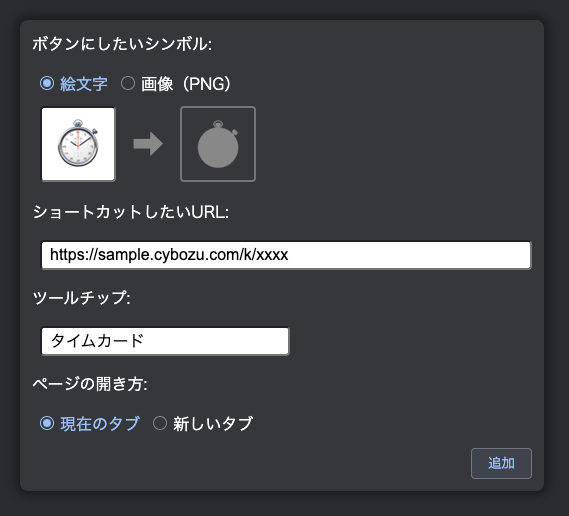
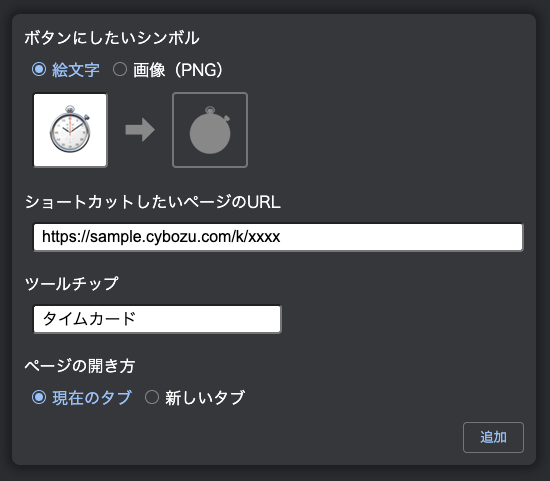
点検して修正した。

Changed region(s): [[0.0309, 0.0624, 0.9582, 0.9356], [0.0618, 0.842, 0.9582, 0.9667]]

diff --git a/src/js/option.js b/src/js/option.js
@@ -54,7 +54,6 @@
 
   const saveAnchors = () => {
     const anchors = currentAnchors();
-    console.dir(anchors, { depth: null });
     chrome.storage.sync.set({ anchors: anchors }, function () {
       updateHidden(anchors);
     });
@@ -69,6 +68,11 @@
   const makeAnchorItem = (anchor) => {
     const li = document.createElement("li");
     li.className = "anchor-item";
+    let note = anchor.tooltip;
+    if (anchor.newtab) {
+      li.classList.add("newtab");
+      note += "（新規タブ）";
+    }
     li.setAttribute("tooltip", anchor.tooltip);
 
     const imgGrasp = document.createElement("img");
@@ -81,7 +85,7 @@
       const spanEmoji = document.createElement("span");
       spanEmoji.className = "anchor-emoji";
       spanEmoji.innerText = anchor.emoji;
-      spanEmoji.title = anchor.tooltip;
+      spanEmoji.title = note;
       li.appendChild(spanEmoji);
     }
 
@@ -89,7 +93,7 @@
       const imgImage = document.createElement("img");
       imgImage.className = "anchor-image";
       imgImage.src = anchor.image;
-      imgImage.title = anchor.tooltip;
+      imgImage.title = note;
       li.appendChild(imgImage);
     }
 
@@ -104,9 +108,6 @@
     btnDelete.addEventListener("click", removeAnchorItem);
     li.appendChild(btnDelete);
 
-    if (anchor.newtab) {
-      li.classList.add("newtab");
-    }
     return li;
   };
 
@@ -156,7 +157,7 @@
     }
 
     const inputTooltip = document.querySelector(".input-tooltip");
-    const inputNewTab = document.querySelector(".newtab");
+    const inputNewTab = document.querySelector(".newtab-radio");
     const anchor = {
       emoji: emoji,
       image: image,
@@ -185,7 +186,10 @@
     const emojiPreview = document.querySelector(".emoji-preview");
     const inputEmoji = document.querySelector(".input-emoji");
     inputEmoji.addEventListener("input", () => {
-      if (inputEmoji.scrollWidth <= inputEmoji.clientWidth) {
+      if (
+        0 < inputEmoji.value.length &&
+        inputEmoji.scrollWidth <= inputEmoji.clientWidth
+      ) {
         emojiPreview.innerText = inputEmoji.value;
       } else {
         emojiPreview.innerText = "?";
@@ -197,8 +201,12 @@
     document
       .querySelector(".input-image")
       .addEventListener("change", function (e) {
-        const blobURL = URL.createObjectURL(e.target.files[0]);
-        document.querySelector(".image-preview").src = blobURL;
+        if (0 < e.target.files.length) {
+          const blobURL = URL.createObjectURL(e.target.files[0]);
+          document.querySelector(".image-preview").src = blobURL;
+        } else {
+          document.querySelector(".image-preview").src = "images/question.png";
+        }
       });
   };
 

diff --git a/src/option.html b/src/option.html
@@ -13,7 +13,7 @@
       <ul class="anchor-list"></ul>
     </div>
     <div class="add-anchor-div">
-      <p>ボタンにしたいシンボル:</p>
+      <p class="sub-title">ボタンにしたいシンボル</p>
       <label class="radio-label">
         <input type="radio" name="anchor-symbol" value="emoji" checked />
         <span class="radio-text">絵文字</span>
@@ -38,7 +38,7 @@
         <p class="arrow">➡</p>
         <img class="image-preview" src="images/question.png" />
       </div>
-      <p>ショートカットしたいURL:</p>
+      <p class="sub-title">ショートカットしたいページのURL</p>
       <input
         class="input-url"
         type="text"
@@ -46,7 +46,7 @@
         placeholder="https://から始まるリンクにしてください。"
         spellcheck="false"
       />
-      <p>ツールチップ:</p>
+      <p class="sub-title">ツールチップ</p>
       <input
         class="input-tooltip"
         type="text"
@@ -54,13 +54,18 @@
         placeholder="ボタンの短い説明（任意）"
         spellcheck="false"
       />
-      <p>ページの開き方:</p>
+      <p class="sub-title">ページの開き方</p>
       <label class="radio-label">
         <input type="radio" name="open-page" value="currenttab" checked />
         <span class="radio-text">現在のタブ</span>
       </label>
       <label class="radio-label">
-        <input type="radio" name="open-page" value="newtab" class="newtab" />
+        <input
+          class="newtab-radio"
+          type="radio"
+          name="open-page"
+          value="newtab"
+        />
         <span class="radio-text">新しいタブ</span>
       </label>
       <div class="add-button-div">

diff --git a/icon.html b/icon.html
@@ -2,12 +2,12 @@
   style="
     width: 128px;
     height: 128px;
-    background-color: #333;
+    background-color: #ffcc00;
     text-align: center;
     line-height: 128px;
   "
 >
-  <p style="font-size: 80px; color: transparent; text-shadow: 0 0 0 #888888">
+  <p style="font-size: 80px; color: transparent; text-shadow: 0 0 0 #000000">
     📌
   </p>
 </div>
@@ -16,12 +16,12 @@
   style="
     width: 48px;
     height: 48px;
-    background-color: #333;
+    background-color: #ffcc00;
     text-align: center;
     line-height: 48px;
   "
 >
-  <p style="font-size: 30px; color: transparent; text-shadow: 0 0 0 #888888">
+  <p style="font-size: 30px; color: transparent; text-shadow: 0 0 0 #000000">
     📌
   </p>
 </div>
@@ -30,23 +30,12 @@
   style="
     width: 16px;
     height: 16px;
-    background-color: #333;
+    background-color: #ffcc00;
     text-align: center;
     line-height: 16px;
   "
 >
-  <p style="font-size: 10px; color: transparent; text-shadow: 0 0 0 #888888">
+  <p style="font-size: 10px; color: transparent; text-shadow: 0 0 0 #000000">
     📌
   </p>
-</div>
-
-<div>
-  <img
-    src="./resources/onigiri.png"
-    style="
-      width: 150px;
-      height: 150px;
-      filter: brightness(0) invert() drop-shadow(0 0 0 green);
-    "
-  />
 </div>

diff --git a/src/js/content.js b/src/js/content.js
@@ -2,6 +2,7 @@
   "use strict";
 
   const makeButton = (anchor) => {
+    const li = document.createElement("li");
     const a = document.createElement("a");
 
     if (anchor.emoji) {
@@ -27,7 +28,6 @@
       a.setAttribute("rel", "noopener noreferrer");
     }
 
-    const li = document.createElement("li");
     li.appendChild(a);
     return li;
   };

diff --git a/src/css/option.css b/src/css/option.css
@@ -131,6 +131,11 @@ body {
   margin-top: 0;
 }
 
+.sub-title {
+  margin-top: 20px;
+  margin-bottom: 8px;
+}
+
 /* radio button */
 input[type="radio"] {
   display: none;
